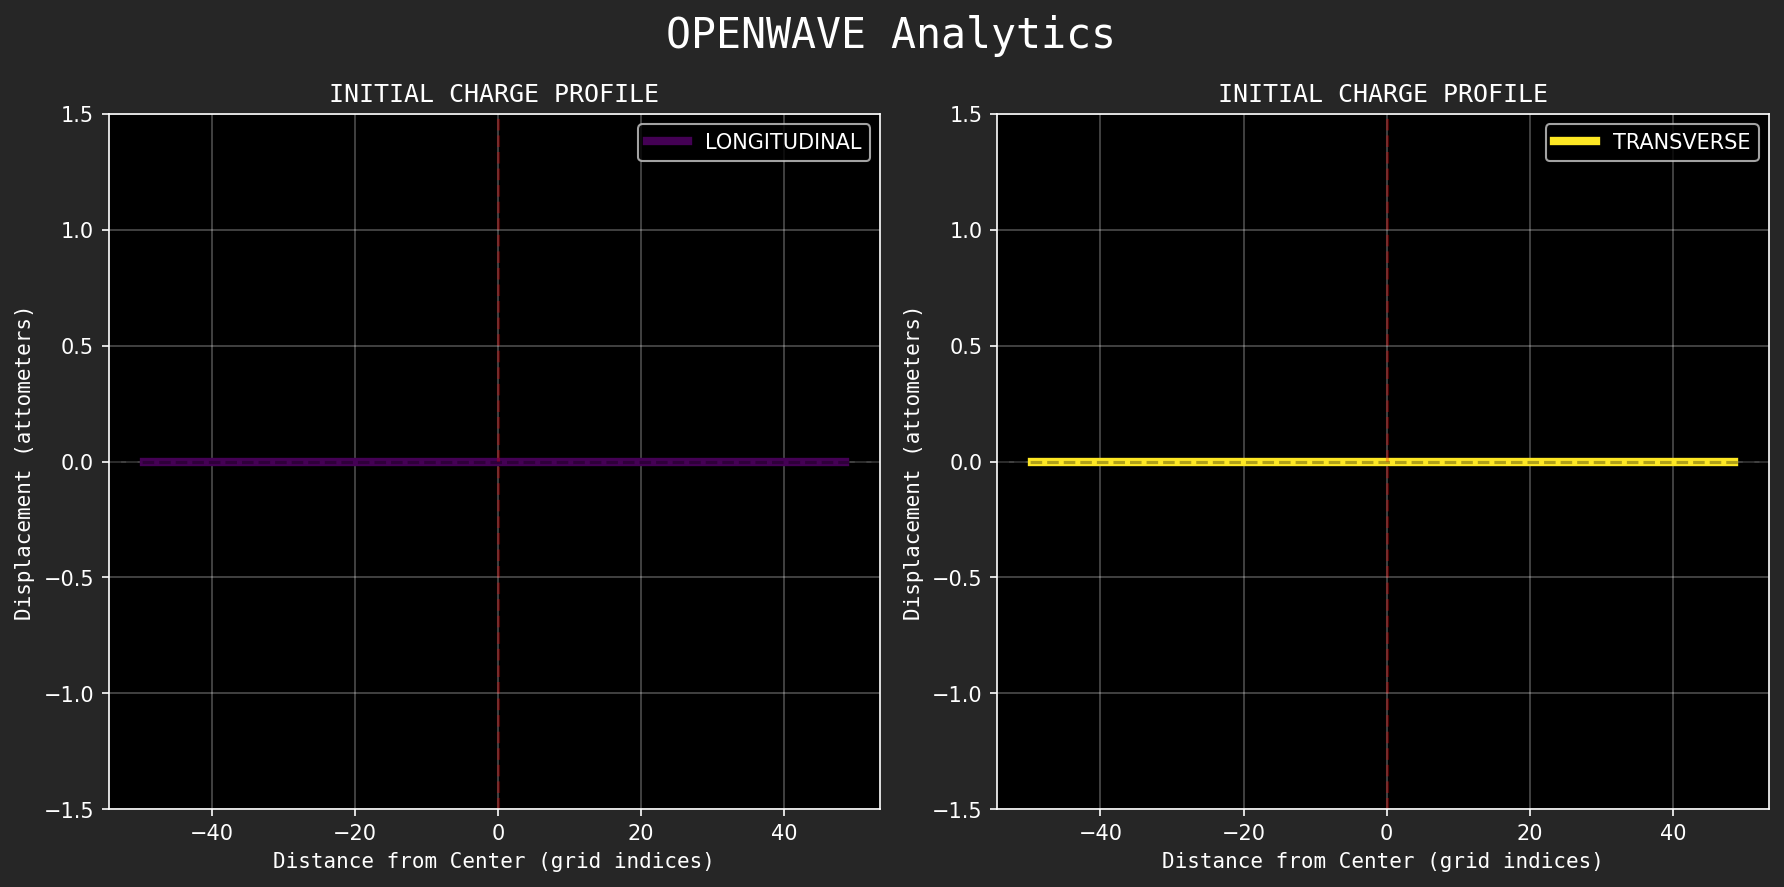
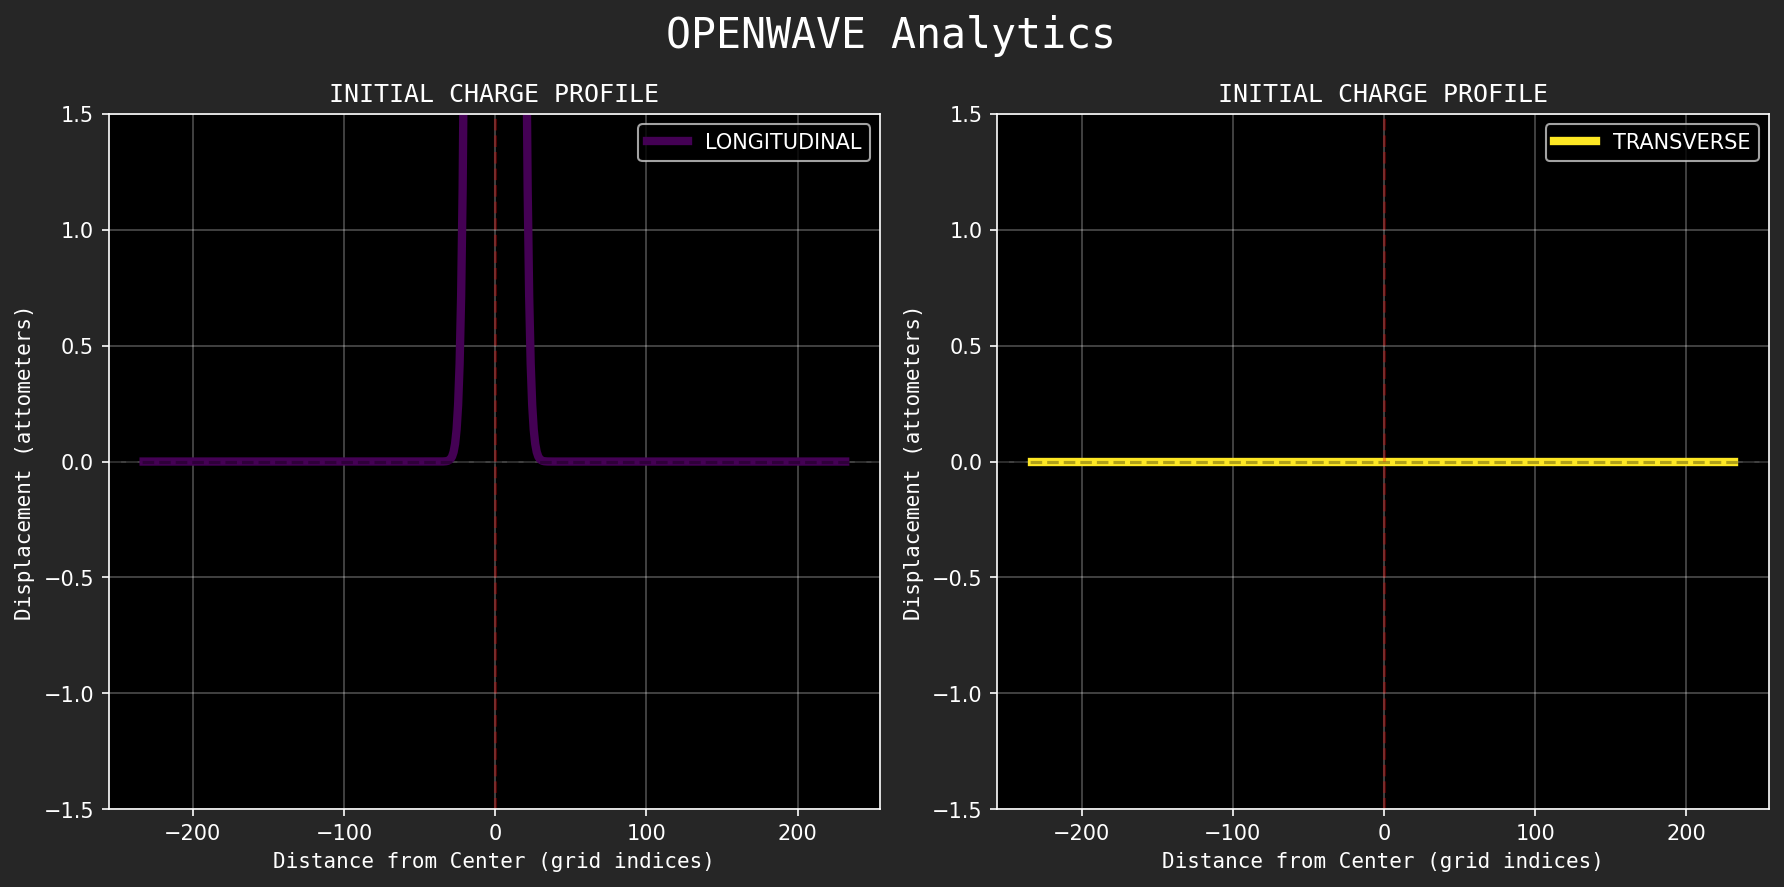
Add amplitude tracking and update color mapping logic
Introduces amplitude envelope tracking using an exponential moving average in the wave propagation kernel. Updates color mapping to support amplitude-based visualization, modifies color menu UI, and replaces peak_amplitude with avg_amplitude in the simulation state. Also swaps and clarifies the charge_full and charge_1lambda kernel logic, adjusts oscillator source radius, and updates experiment parameters and documentation for improved clarity and consistency.

diff --git a/openwave/spacetime/L1_wave_engine.py b/openwave/spacetime/L1_wave_engine.py
@@ -20,17 +20,14 @@ rho = constants.MEDIUM_DENSITY  # medium density (kg/m³)
 
 
 @ti.kernel
-def charge_full(
+def charge_1lambda(
     wave_field: ti.template(),  # type: ignore
     c_slowed: ti.f32,  # type: ignore
     dt: ti.f32,  # type: ignore
 ):
     """
-    Initialize a spherical outgoing wave pattern centered in the wave field.
-
-    Creates a radial sinusoidal displacement pattern emanating from the grid center
-    using the wave equation: A·cos(ωt - kr). Sets up both current and previous
-    timestep displacements for time-stepping propagation.
+    Initialize a spherical outgoing wave within 1 base_wavelength.
+    Similar to initiate_charge() but limits the wave to within 1 base_wavelength
 
     Args:
         wave_field: WaveField instance containing displacement arrays and grid info
@@ -62,12 +59,15 @@ def charge_full(
         dz = ti.cast(k, ti.f32) - center_z
         r_grid = ti.sqrt(dx * dx + dy * dy + dz * dz)  # in grid indices
 
+        # Amplitude = base if r < λ, 0 otherwise, oscillates radially
+        amplitude_am_at_r = base_amplitude_am if r_grid < wavelength_grid else 0.0
+
         # Simple sinusoidal radial pattern
         # Outward displacement from center source: A(r)·cos(ωt - kr)
         # Creates rings of positive/negative displacement
         # Signed value: positive = expansion, negative = compression
-        disp = base_amplitude_am * ti.cos(omega * 0 - wave_number * r_grid)  # t0 initial condition
-        disp_old = base_amplitude_am * ti.cos(omega * -dt - wave_number * r_grid)
+        disp = amplitude_am_at_r * ti.cos(omega * 0 - wave_number * r_grid)  # t0 initial condition
+        disp_old = amplitude_am_at_r * ti.cos(omega * -dt - wave_number * r_grid)
 
         # Apply both displacements (in attometers)
         wave_field.displacement_am[i, j, k] = disp  # at time t=0
@@ -135,14 +135,17 @@ def charge_falloff(
 
 
 @ti.kernel
-def charge_1lambda(
+def charge_full(
     wave_field: ti.template(),  # type: ignore
     c_slowed: ti.f32,  # type: ignore
     dt: ti.f32,  # type: ignore
 ):
     """
-    Initialize a spherical outgoing wave within 1 base_wavelength.
-    Similar to initiate_charge() but limits the wave to within 1 base_wavelength
+    Initialize a spherical outgoing wave pattern centered in the wave field.
+
+    Creates a radial sinusoidal displacement pattern emanating from the grid center
+    using the wave equation: A·cos(ωt - kr). Sets up both current and previous
+    timestep displacements for time-stepping propagation.
 
     Args:
         wave_field: WaveField instance containing displacement arrays and grid info
@@ -174,15 +177,12 @@ def charge_1lambda(
         dz = ti.cast(k, ti.f32) - center_z
         r_grid = ti.sqrt(dx * dx + dy * dy + dz * dz)  # in grid indices
 
-        # Amplitude = base if r < λ, 0 otherwise, oscillates radially
-        amplitude_am_at_r = base_amplitude_am if r_grid < wavelength_grid else 0.0
-
         # Simple sinusoidal radial pattern
         # Outward displacement from center source: A(r)·cos(ωt - kr)
         # Creates rings of positive/negative displacement
         # Signed value: positive = expansion, negative = compression
-        disp = amplitude_am_at_r * ti.cos(omega * 0 - wave_number * r_grid)  # t0 initial condition
-        disp_old = amplitude_am_at_r * ti.cos(omega * -dt - wave_number * r_grid)
+        disp = base_amplitude_am * ti.cos(omega * 0 - wave_number * r_grid)  # t0 initial condition
+        disp_old = base_amplitude_am * ti.cos(omega * -dt - wave_number * r_grid)
 
         # Apply both displacements (in attometers)
         wave_field.displacement_am[i, j, k] = disp  # at time t=0
@@ -275,26 +275,24 @@ def charge_oscillator(
     omega = 2.0 * ti.math.pi * f_slowed  # angular frequency (rad/s)
 
     # Define center oscillator radius
-    radius = int(0.02 * wave_field.max_grid_size)  # fraction of max grid size
+    source_radius = int(0.05 * wave_field.max_grid_size)  # fraction of max grid size
 
     # Find center position (in grid indices)
     cx = wave_field.nx // 2
     cy = wave_field.ny // 2
     cz = wave_field.nz // 2
 
-    # Apply oscillating displacement at center radius only
+    # Apply oscillating displacement at center source_radius only
     # Harmonic motion: A·cos(ωt), positive = expansion, negative = compression
     for i, j, k in ti.ndrange(
-        (cx - radius, cx + radius + 1),
-        (cy - radius, cy + radius + 1),
-        (cz - radius, cz + radius + 1),
+        (cx - source_radius, cx + source_radius + 1),
+        (cy - source_radius, cy + source_radius + 1),
+        (cz - source_radius, cz + source_radius + 1),
     ):
         # Compute distance squared inline (Taichi kernels need direct computation)
         dist_sq = (i - cx) ** 2 + (j - cy) ** 2 + (k - cz) ** 2
-        if dist_sq <= radius * radius:
-            wave_field.displacement_am[i, j, k] = (
-                base_amplitude_am * ti.cos(omega * elapsed_t) / radius * 10
-            )
+        if dist_sq <= source_radius**2:
+            wave_field.displacement_am[i, j, k] = base_amplitude_am * ti.cos(omega * elapsed_t)
 
 
 @ti.func
@@ -383,6 +381,24 @@ def propagate_ewave(
             + (c_am * dt) ** 2 * laplacian_am
         )
 
+        # WAVE TRACKERS: compute tracked properties during propagation (A & f)
+        # Track amplitude envelope using exponential moving average (EMA)
+        # EMA formula: A_new = α * |ψ| + (1 - α) * A_old
+        # α controls adaptation speed: higher = faster response, lower = smoother
+        # TODO: 2 polarities tracked: longitudinal & transverse
+        disp_mag = ti.abs(wave_field.displacement_am[i, j, k])
+        current_amp = wave_field.amplitude_am[i, j, k][0]
+
+        # Asymmetric EMA: fast attack (α=0.3) when rising, slow decay (α=0.02) when falling
+        # This captures peaks quickly but smooths out the decay
+        alpha = 0.3 if disp_mag > current_amp else 0.02
+        wave_field.amplitude_am[i, j, k][0] = alpha * disp_mag + (1.0 - alpha) * current_amp
+
+        # Track avg amplitude across all voxels
+        # TODO: compute this as avg from total voxels for energy conservation
+        # Here we use a simple max envelope for visualization scaling
+        wave_field.avg_amplitude_am[None] = base_amplitude_am * 2
+
     # Swap time levels: old ← current, current ← new
     for i, j, k in ti.ndrange(wave_field.nx, wave_field.ny, wave_field.nz):
         wave_field.displacement_old_am[i, j, k] = wave_field.displacement_am[i, j, k]
@@ -393,6 +409,7 @@ def propagate_ewave(
 def update_flux_mesh_colors(
     wave_field: ti.template(),  # type: ignore
     color_palette: ti.i32,  # type: ignore
+    var_amp: ti.i32,  # type: ignore
 ):
     """
     Update flux mesh colors by sampling wave properties from voxel grid.
@@ -418,11 +435,6 @@ def update_flux_mesh_colors(
     center_j = wave_field.ny // 2
     center_k = wave_field.nz // 2
 
-    # Displacement range for color scaling (in attometers)
-    # TODO: In future, use exponential moving average tracker like LEVEL-0 ironbow
-    # For now, use fixed range based on test pattern amplitude
-    peak_amplitude_am = base_amplitude_am  # attometers (positive displacement/expansion)
-
     # ================================================================
     # XY Plane: Sample at z = center_k
     # ================================================================
@@ -430,19 +442,21 @@ def update_flux_mesh_colors(
     for i, j in ti.ndrange(wave_field.nx, wave_field.ny):
         # Sample longitudinal displacement at this voxel
         disp_value = wave_field.displacement_am[i, j, center_k]
+        amp_value = wave_field.amplitude_am[i, j, center_k][0]
+        value = amp_value if var_amp else disp_value
 
-        # Map displacement to color using selected gradient
+        # Map displacement/ amplitude to color using selected gradient
         if color_palette == 2:  # blueprint
             wave_field.fluxmesh_xy_colors[i, j] = colormap.get_blueprint_color(
-                disp_value, -peak_amplitude_am, peak_amplitude_am
+                value, -wave_field.avg_amplitude_am[None], wave_field.avg_amplitude_am[None]
             )
         elif color_palette == 3:  # redshift
             wave_field.fluxmesh_xy_colors[i, j] = colormap.get_redshift_color(
-                disp_value, -peak_amplitude_am, peak_amplitude_am
+                value, -wave_field.avg_amplitude_am[None], wave_field.avg_amplitude_am[None]
             )
         else:  # default to ironbow (palette 1)
             wave_field.fluxmesh_xy_colors[i, j] = colormap.get_ironbow_color(
-                disp_value, -peak_amplitude_am, peak_amplitude_am
+                value, -wave_field.avg_amplitude_am[None], wave_field.avg_amplitude_am[None]
             )
 
     # ================================================================
@@ -451,19 +465,21 @@ def update_flux_mesh_colors(
     for i, k in ti.ndrange(wave_field.nx, wave_field.nz):
         # Sample longitudinal displacement at this voxel
         disp_value = wave_field.displacement_am[i, center_j, k]
+        amp_value = wave_field.amplitude_am[i, center_j, k][0]
+        value = amp_value if var_amp else disp_value
 
         # Map displacement to color using selected gradient
         if color_palette == 2:  # blueprint
             wave_field.fluxmesh_xz_colors[i, k] = colormap.get_blueprint_color(
-                disp_value, -peak_amplitude_am, peak_amplitude_am
+                value, -wave_field.avg_amplitude_am[None], wave_field.avg_amplitude_am[None]
             )
         elif color_palette == 3:  # redshift
             wave_field.fluxmesh_xz_colors[i, k] = colormap.get_redshift_color(
-                disp_value, -peak_amplitude_am, peak_amplitude_am
+                value, -wave_field.avg_amplitude_am[None], wave_field.avg_amplitude_am[None]
             )
         else:  # default to ironbow (palette 1)
             wave_field.fluxmesh_xz_colors[i, k] = colormap.get_ironbow_color(
-                disp_value, -peak_amplitude_am, peak_amplitude_am
+                value, -wave_field.avg_amplitude_am[None], wave_field.avg_amplitude_am[None]
             )
 
     # ================================================================
@@ -472,19 +488,21 @@ def update_flux_mesh_colors(
     for j, k in ti.ndrange(wave_field.ny, wave_field.nz):
         # Sample longitudinal displacement at this voxel
         disp_value = wave_field.displacement_am[center_i, j, k]
+        amp_value = wave_field.amplitude_am[center_i, j, k][0]
+        value = amp_value if var_amp else disp_value
 
         # Map displacement to color using selected gradient
         if color_palette == 2:  # blueprint
             wave_field.fluxmesh_yz_colors[j, k] = colormap.get_blueprint_color(
-                disp_value, -peak_amplitude_am, peak_amplitude_am
+                value, -wave_field.avg_amplitude_am[None], wave_field.avg_amplitude_am[None]
             )
         elif color_palette == 3:  # redshift
             wave_field.fluxmesh_yz_colors[j, k] = colormap.get_redshift_color(
-                disp_value, -peak_amplitude_am, peak_amplitude_am
+                value, -wave_field.avg_amplitude_am[None], wave_field.avg_amplitude_am[None]
             )
         else:  # default to ironbow (palette 1)
             wave_field.fluxmesh_yz_colors[j, k] = colormap.get_ironbow_color(
-                disp_value, -peak_amplitude_am, peak_amplitude_am
+                value, -wave_field.avg_amplitude_am[None], wave_field.avg_amplitude_am[None]
             )
 
 

diff --git a/openwave/xperiments/5_level1_field_based/L1_launcher.py b/openwave/xperiments/5_level1_field_based/L1_launcher.py
@@ -110,7 +110,7 @@ class SimulationState:
         self.cfl_factor = 0.0
         self.elapsed_t = 0.0
         self.frame = 0
-        self.peak_amplitude = 0.0
+        self.avg_amplitude = 0.0
 
         # Current xperiment parameters
         self.X_NAME = ""
@@ -193,7 +193,7 @@ class SimulationState:
         self.cfl_factor = 0.0
         self.elapsed_t = 0.0
         self.frame = 0
-        self.peak_amplitude = 0.0
+        self.avg_amplitude = 0.0
         self.initialize_grid()
         self.compute_timestep()
         initialize_xperiment(self)
@@ -250,33 +250,27 @@ def display_controls(state):
 def display_color_menu(state):
     """Display color selection menu."""
     tracker = "amplitude" if state.VAR_AMP else "displacement"
-    with render.gui.sub_window("COLOR MENU", 0.00, 0.70, 0.14, 0.17) as sub:
-        if sub.checkbox(
-            "Displacement (blueprint)", state.COLOR_PALETTE == 2 and not state.VAR_AMP
-        ):
-            state.COLOR_PALETTE = 2
-            state.VAR_AMP = False
+    with render.gui.sub_window("COLOR MENU", 0.00, 0.75, 0.14, 0.12) as sub:
         if sub.checkbox("Displacement (redshift)", state.COLOR_PALETTE == 3 and not state.VAR_AMP):
             state.COLOR_PALETTE = 3
             state.VAR_AMP = False
         if sub.checkbox("Amplitude (ironbow)", state.COLOR_PALETTE == 1 and state.VAR_AMP):
             state.COLOR_PALETTE = 1
             state.VAR_AMP = True
-        if sub.checkbox("Amplitude (blueprint)", state.COLOR_PALETTE == 2 and state.VAR_AMP):
+        if sub.checkbox("Frequency (blueprint)", state.COLOR_PALETTE == 2):
             state.COLOR_PALETTE = 2
-            state.VAR_AMP = True
         if state.COLOR_PALETTE == 1:  # Display ironbow gradient palette
             render.canvas.triangles(ib_palette_vertices, per_vertex_color=ib_palette_colors)
-            with render.gui.sub_window(tracker, 0.00, 0.64, 0.08, 0.06) as sub:
-                sub.text(f"0       {state.peak_amplitude:.0e}m")
+            with render.gui.sub_window(tracker, 0.00, 0.69, 0.08, 0.06) as sub:
+                sub.text(f"0       {state.avg_amplitude:.0e}m")
         if state.COLOR_PALETTE == 2:  # Display blueprint gradient palette
             render.canvas.triangles(bp_palette_vertices, per_vertex_color=bp_palette_colors)
-            with render.gui.sub_window(tracker, 0.00, 0.64, 0.08, 0.06) as sub:
-                sub.text(f"0       {state.peak_amplitude:.0e}m")
+            with render.gui.sub_window("frequency", 0.00, 0.69, 0.08, 0.06) as sub:
+                sub.text(f"??? Hz")
         if state.COLOR_PALETTE == 3:  # Display redshift gradient palette
             render.canvas.triangles(rs_palette_vertices, per_vertex_color=rs_palette_colors)
-            with render.gui.sub_window(tracker, 0.00, 0.64, 0.08, 0.06) as sub:
-                sub.text(f"0       {state.peak_amplitude:.0e}m")
+            with render.gui.sub_window(tracker, 0.00, 0.69, 0.08, 0.06) as sub:
+                sub.text(f"{-state.avg_amplitude:.0e}  {state.avg_amplitude:.0e}m")
 
 
 def display_level_specs(state, level_bar_vertices):
@@ -355,24 +349,24 @@ def initialize_xperiment(state):
 
     # Initialize color palette scales for gradient rendering and level indicator
     ib_palette_vertices, ib_palette_colors = colormap.get_palette_scale(
-        colormap.ironbow, 0.00, 0.63, 0.079, 0.01
+        colormap.ironbow, 0.00, 0.68, 0.079, 0.01
     )
     bp_palette_vertices, bp_palette_colors = colormap.get_palette_scale(
-        colormap.blueprint, 0.00, 0.63, 0.079, 0.01
+        colormap.blueprint, 0.00, 0.68, 0.079, 0.01
     )
     rs_palette_vertices, rs_palette_colors = colormap.get_palette_scale(
-        colormap.redshift, 0.00, 0.63, 0.079, 0.01
+        colormap.redshift, 0.00, 0.68, 0.079, 0.01
     )
     level_bar_vertices = colormap.get_level_bar_geometry(0.82, 0.00, 0.179, 0.01)
 
     # Static CHARGER Methods available for testing
     # Charge initial wave pattern
-    # ewave.charge_gaussian(state.wave_field, state.c_slowed, state.dt)
-    # ewave.charge_1lambda(state.wave_field, state.c_slowed, state.dt)
-    # ewave.charge_falloff(state.wave_field, state.c_slowed, state.dt)
+    ewave.charge_gaussian(state.wave_field, state.c_slowed, state.dt)
     # ewave.charge_full(state.wave_field, state.c_slowed, state.dt)
+    # ewave.charge_falloff(state.wave_field, state.c_slowed, state.dt)
+    # ewave.charge_1lambda(state.wave_field, state.c_slowed, state.dt)
     # TODO: code toggle to plot initial displacement profile
-    # ewave.plot_charge_profile(state.wave_field)
+    ewave.plot_charge_profile(state.wave_field)
 
     if state.WAVE_DIAGNOSTICS:
         diagnostics.print_initial_parameters()
@@ -386,10 +380,11 @@ def compute_wave_motion(state):
     """
     # Dynamic CHARGER Method
     # TODO: stop charging when total energy stabilizes
-    ewave.charge_oscillator(state.wave_field, state.c_slowed, state.elapsed_t)
+    # ewave.charge_oscillator(state.wave_field, state.c_slowed, state.elapsed_t)
 
     ewave.propagate_ewave(state.wave_field, state.c_slowed, state.dt)
     # TODO: Implement IN-FRAME DATA SAMPLING & DIAGNOSTICS
+    state.avg_amplitude = state.wave_field.avg_amplitude_am[None] * constants.ATTOMETER
 
 
 def render_elements(state):
@@ -398,7 +393,7 @@ def render_elements(state):
         render.scene.lines(state.wave_field.grid_lines, width=1, color=colormap.COLOR_MEDIUM[1])
 
     if state.FLUX_MESH_OPTION > 0:
-        ewave.update_flux_mesh_colors(state.wave_field, state.COLOR_PALETTE)
+        ewave.update_flux_mesh_colors(state.wave_field, state.COLOR_PALETTE, state.VAR_AMP)
         flux_mesh.render_flux_mesh(render.scene, state.wave_field, state.FLUX_MESH_OPTION)
 
     # TODO: remove test particles for visual reference

diff --git a/openwave/xperiments/5_level1_field_based/_xparameters/flow_wave.py b/openwave/xperiments/5_level1_field_based/_xparameters/flow_wave.py
@@ -32,7 +32,7 @@ XPARAMETERS = {
     },
     "color_defaults": {
         "COLOR_THEME": "OCEAN",  # Choose color theme for rendering (OCEAN, DESERT, FOREST)
-        "COLOR_PALETTE": 2,  # Color palette list: ironbow (1), blueprint (2), redshift (3), viridis (4)
+        "COLOR_PALETTE": 3,  # Color palette list: ironbow (1), blueprint (2), redshift (3), viridis (4)
         "VAR_AMP": False,  # Displacement vs amplitude toggle
     },
     "diagnostics": {

diff --git a/openwave/wave_notation.md b/openwave/wave_notation.md
@@ -11,15 +11,6 @@ OpenWave uses equations & terminology based on standardized physics notation fro
 - WAVE-SPEED: `c = 3e8 [m/s]`, constant defined by medium property, √(medium elasticity/
 density)
 
-## Wave Rhythm
-
-- WAVE-FREQUENCY: `f = c/λ [Hz]`, temporal oscillation [EWT Constant]
-  - Defines TIME = the wave frequency, rhythm
-  - angular frequency: `ω = 2πf [rad/s]`
-  - ωt = temporal phase (controls rhythm, time-varying component)
-- WAVE-PERIOD: `T = 1/f [s]`, time for one complete cycle [EWT Constant]
-- WAVE-PHASE: `φ [radians]`, 0 to 2π, position in wave cycle, interference patterns
-
 ## Wave Size
 
 - WAVE-DISPLACEMENT: `ψl & ψt [m]`, harmonic oscillation in 2 polarities
@@ -29,6 +20,15 @@ density)
   - angular wave number: `k = 2π/λ [rad/m]`
   - kr = spatial phase
 - WAVE-STEEPNESS: `ξ = 2*A/λ`, wave height to wavelength ratio, stable when < 1/7
+
+## Wave Rhythm
+
+- WAVE-FREQUENCY: `f = c/λ [Hz]`, temporal oscillation [EWT Constant]
+  - Defines TIME = the wave frequency, rhythm
+  - angular frequency: `ω = 2πf [rad/s]`
+  - ωt = temporal phase (controls rhythm, time-varying component)
+- WAVE-PERIOD: `T = 1/f [s]`, time for one complete cycle [EWT Constant]
+- WAVE-PHASE: `φ [radians]`, 0 to 2π, position in wave cycle, interference patterns
 
 ## Wave Energy
 
